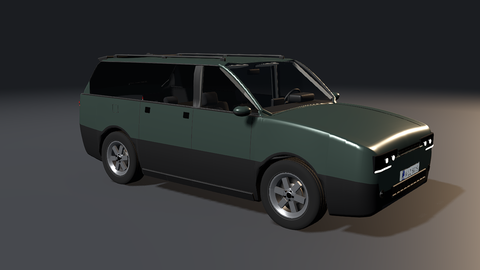
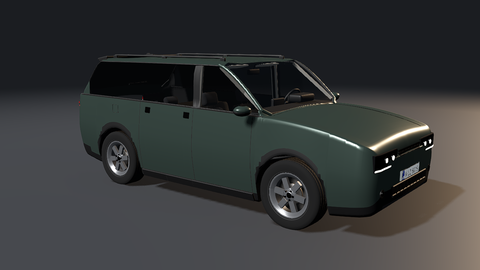
Basalt SUV: black cladding on the sills and wheel-arch flares only
The lower two segments of the whole side were black trim, nearly half
the body height, so the SUV looked two-tone. Now the sill band is trim
plus an 8 cm flare round each wheel arch; the doors are painted down to
the sill.

Claude-Session: https://claude.ai/code/session_01Mew6yuoqkdYBDMrEikaviS

diff --git a/core/src/car_visual.cpp b/core/src/car_visual.cpp
@@ -1028,7 +1028,10 @@ void buildCarVisual(CarBuild& build, const Profile& prof, const CarRig& rig) {
         if (seg <= 5) {
             if (xm > L - 0.40 && ym < yB + 0.13) return "trim";
             if (xm < 0.32 && ym < yB + 0.15) return "trim";
-            if (bd.style == BodyStyle::SUV && seg <= 4) return "trim";
+            // SUV cladding: only the sill band, not the whole lower half of the side.
+            if (bd.style == BodyStyle::SUV && seg <= 3) return "trim";
+            // ...plus black flares round the wheel arches.
+            if (bd.style == BodyStyle::SUV && prof.archY(xm) > 0.0 && ym < prof.archY(xm) + 0.08) return "trim";
             const bool inDoorBand = ym > prof.ySill(xm) + 0.02 && ym < yBe - 0.015;
             for (real seam : {prof.xFD0, prof.xB, prof.xRD1})
                 if (std::abs(xm - seam) < 0.004 && inDoorBand && (bd.doors >= 4 || seam != prof.xRD1)) return "seam";
